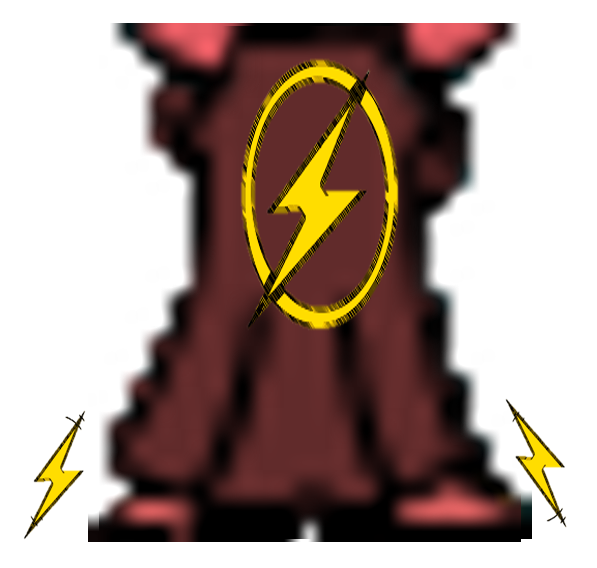
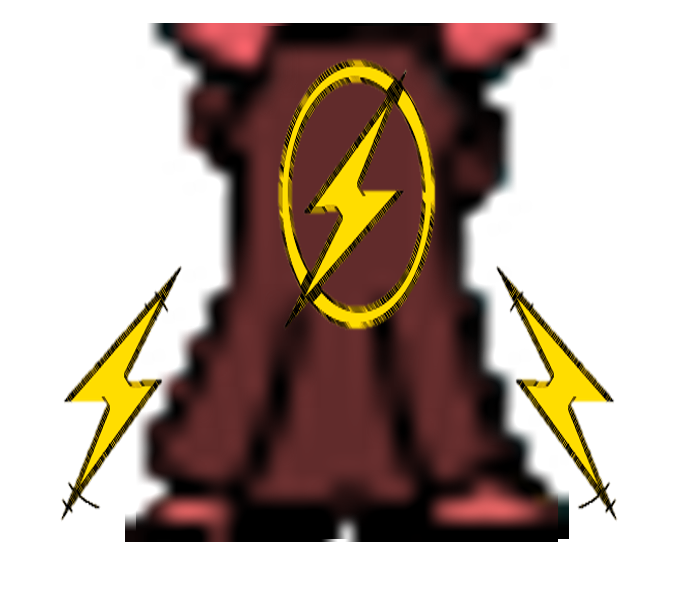
add the flash suit for the active speed booster powerup

diff --git a/bubble_trouble_ai_competition/utils/constants.py b/bubble_trouble_ai_competition/utils/constants.py
@@ -114,9 +114,15 @@ class DisplayConstants:
 class PowerupsSettings:
     
     SPEED_BOOSTER_POWERUP = "speed_booster_powerup"
-    FLASH_SUIT = "flash_suit"
+    STAND_FLASH_SUIT = "flash_suit"
     SPEED_BOOSTER_POWERUP_IMAGE_PATH = Settings.ASSETS_DIR + "\\" + "player_speed_boost_powerup.png"
     FLASH_SUIT_IMAGE_PATH = Settings.ASSETS_DIR + "\\" + "flash_suit.png"
+    FLASH_SUIT_SHIFT_X = 0.5 # In units of screen bits.
+    FLASH_SUIT_SHIFT_Y = 0.2 # In units of screen bits.
+    FLASH_SUIT_WIDTH = Settings.PLAYER_WIDTH * 1.5 # In units of screen bits.
+    FLASH_SUIT_HEIGHT = Settings.PLAYER_HEIGHT * 1.2 # In units of screen bits.
+    DUCK_FLASH_SUIT = "duck_flash_suit"
+    DUCK_FLASH_SUIT_HEIGHT = Settings.PLAYER_DUCK_HEIGHT * 1.2
 
     SHIELD_POWERUP = "shield_powerup"
     SHIELD = "shield"
@@ -124,7 +130,7 @@ class PowerupsSettings:
     SHIELD_IMAGE_PATH = Settings.ASSETS_DIR + "\\" + "shield.png"
     SHIELD_SIZE_INCREASE = 1.5 # In units of screen bits.
     SHIELD_WIDTH = Settings.PLAYER_WIDTH + SHIELD_SIZE_INCREASE
-    SHIELD_HEIGHT = Settings.PLAYER_HEIGHT + Settings.HEAD_RADIUS*2 + SHIELD_SIZE_INCREASE
+    SHIELD_HEIGHT = Settings.PLAYER_HEIGHT + Settings.HEAD_RADIUS * 2 + SHIELD_SIZE_INCREASE
 
     PUNCH_POWERUP = "punch_powerup"
     ACTIVE_LEFT_PUNCH = "active_left_punch"
@@ -173,11 +179,12 @@ class PowerupsSettings:
     DOUBLE_POINTS_POWERUP_IMAGE_PATH = Settings.ASSETS_DIR + "\\" + "double_points_powerup.png"
     DOUBLE_POINTS_ARROW_IMAGE_PATH = Settings.ASSETS_DIR + "\\" +"double_points_arrow.png"
 
-powerup_constants_to_update = ['ICE_CUBE_Y', 'ICE_CUBE_SPACING', 'ICE_CUBE_HEIGHT', 'ICE_CUBE_WIDTH','ICE_FREEZE_HEIGHT',
-                                'ICE_FREEZE_WIDTH', 'ICE_FREEZE_Y', 'ICE_CROWN_Y', 'ICE_CROWN_SPACING', 'ICE_CROWN_HEIGHT',
-                                'ICE_CROWN_WIDTH', 'MUD_WIDTH', 'MUD_HEIGHT', 'MUD_SPACING', 'PUNCH_ACTION_WIDTH',
-                                'PUNCH_ACTION_HEIGHT', 'PUNCH_HEIGHT', 'PUNCH_WIDTH', 'PUNCH_SPACING', 'SHIELD_HEIGHT',
-                                 'SHIELD_WIDTH','SHIELD_SIZE_INCREASE']
+powerup_constants_to_update = ['FLASH_SUIT_WIDTH', 'FLASH_SUIT_SHIFT_X', 'FLASH_SUIT_HEIGHT', 'FLASH_SUIT_SHIFT_Y', 'ICE_CUBE_Y',
+                                'ICE_CUBE_SPACING', 'ICE_CUBE_HEIGHT', 'ICE_CUBE_WIDTH','ICE_FREEZE_HEIGHT', 'ICE_FREEZE_WIDTH',
+                                'ICE_FREEZE_Y', 'ICE_CROWN_Y', 'ICE_CROWN_SPACING', 'ICE_CROWN_HEIGHT', 'ICE_CROWN_WIDTH',
+                                'MUD_WIDTH', 'MUD_HEIGHT', 'MUD_SPACING', 'PUNCH_ACTION_WIDTH', 'PUNCH_ACTION_HEIGHT',
+                                'PUNCH_HEIGHT', 'PUNCH_WIDTH', 'PUNCH_SPACING', 'SHIELD_HEIGHT', 'SHIELD_WIDTH',
+                                'SHIELD_SIZE_INCREASE', 'DUCK_FLASH_SUIT_HEIGHT']
 class Events:
     """
     All events that can be triggered in the game.

diff --git a/bubble_trouble_ai_competition/base_objects/base_player.py b/bubble_trouble_ai_competition/base_objects/base_player.py
@@ -11,7 +11,7 @@ from bubble_trouble_ai_competition.game_core.events_observable import EventsObse
 from bubble_trouble_ai_competition.utils.constants import Directions, DisplayConstants, Events, Settings, PowerupsSettings
 from bubble_trouble_ai_competition.utils.general_utils import circles_collide, circle_rect_collide, rect_collide
 from bubble_trouble_ai_competition.utils.types import SpeedTypes
-from bubble_trouble_ai_competition.utils.load_display import get_ai_images
+from bubble_trouble_ai_competition.utils.load_display import Images, get_ai_images
 from bubble_trouble_ai_competition.game_core.game_state import game_ais
 
 class BasePlayer:
@@ -263,11 +263,11 @@ class BasePlayer:
         Args:
             screen (pygame.Surface): The screen to draw the player on.
         """
+        ai_images = get_ai_images(self.name)
 
         # Drawing body
-        ai_images = get_ai_images(self.name)
-        body_image = ai_images[Settings.PLAYER_DUCK_BODY] if self.is_ducking else ai_images[Settings.PLAYER_STAND_BODY]
-        screen.blit(body_image, (self.x, self.y))
+        body_image, body_image_coordinates = self.get_body_image_and_coordinates(ai_images)        
+        screen.blit(body_image, body_image_coordinates)
 
         # Drawing head
         head_image_draw_position = (self.head_center[0] - self.head_radius, self.head_center[1] - self.head_radius)
@@ -279,6 +279,33 @@ class BasePlayer:
         elif (self.direction == Directions.RIGHT):
             screen.blit(ai_images[Settings.PLAYER_RIGHT_HEAD], head_image_draw_position)
 
+
+    def get_body_image_and_coordinates(self, ai_images) -> tuple:
+        """Return the body image and body image coordinates of player."""
+
+        # Set the regular player body image and coordinates.
+        body_image = ai_images[Settings.PLAYER_STAND_BODY]
+        body_image_coordinates = (self.x, self.y)
+
+        # Check if player have active speed boost powerup.
+        if self.speed == SpeedTypes.FAST:
+            # Set flash suit body coordinates.
+            body_image_coordinates = (self.x - PowerupsSettings.FLASH_SUIT_SHIFT_X, self.y - PowerupsSettings.FLASH_SUIT_SHIFT_Y)
+            if self.is_ducking == True:
+                # Set the duck flash suit body image.
+                body_image = Images.powerups_images[PowerupsSettings.DUCK_FLASH_SUIT]
+            else:
+                # Set the stand flash suit body image.
+                body_image = Images.powerups_images[PowerupsSettings.STAND_FLASH_SUIT]
+
+        else:
+            if self.is_ducking == True:
+                # Set the regular duck body image.
+                body_image = ai_images[Settings.PLAYER_DUCK_BODY]
+        
+        return body_image, body_image_coordinates
+    
+     
     def can_shoot(self) -> bool:
         """
         Checks if the player can shoot.

diff --git a/bubble_trouble_ai_competition/utils/load_display.py b/bubble_trouble_ai_competition/utils/load_display.py
@@ -88,7 +88,8 @@ def load_all_powerups_images() -> dict[str, pygame.Surface]:
             PowerupsSettings.SPEED_SLOWER_POWERUP: load_and_scale_powerup_image(PowerupsSettings.SPEED_SLOWER_POWERUP_IMAGE_PATH),
             PowerupsSettings.MUD: load_and_scale_image(PowerupsSettings.MUD_IMAGE_PATH, PowerupsSettings.MUD_WIDTH, PowerupsSettings.MUD_HEIGHT),
             PowerupsSettings.SPEED_BOOSTER_POWERUP: load_and_scale_powerup_image(PowerupsSettings.SPEED_BOOSTER_POWERUP_IMAGE_PATH),
-            PowerupsSettings.FLASH_SUIT: load_and_scale_image(PowerupsSettings.FLASH_SUIT_IMAGE_PATH, Settings.PLAYER_WIDTH, Settings.PLAYER_HEIGHT),
+            PowerupsSettings.STAND_FLASH_SUIT: load_and_scale_image(PowerupsSettings.FLASH_SUIT_IMAGE_PATH, PowerupsSettings.FLASH_SUIT_WIDTH, PowerupsSettings.FLASH_SUIT_HEIGHT),
+            PowerupsSettings.DUCK_FLASH_SUIT: load_and_scale_image(PowerupsSettings.FLASH_SUIT_IMAGE_PATH, PowerupsSettings.FLASH_SUIT_WIDTH, PowerupsSettings.DUCK_FLASH_SUIT_HEIGHT),
             PowerupsSettings.PUNCH_POWERUP: pygame.transform.rotate(load_and_scale_powerup_image(PowerupsSettings.PUNCH_POWERUP_IMAGE_PATH), 270),
             PowerupsSettings.ACTIVE_LEFT_PUNCH: load_and_scale_image(PowerupsSettings.PUNCH_ACTION_IMAGE_PATH, PowerupsSettings.PUNCH_WIDTH, PowerupsSettings.PUNCH_HEIGHT),
             PowerupsSettings.LEFT_ACTION_PUNCH: load_and_scale_image(PowerupsSettings.PUNCH_ACTION_IMAGE_PATH, PowerupsSettings.PUNCH_ACTION_WIDTH, PowerupsSettings.PUNCH_ACTION_HEIGHT),

diff --git a/bubble_trouble_ai_competition/powerups/player_speed_boost_powerup.py b/bubble_trouble_ai_competition/powerups/player_speed_boost_powerup.py
@@ -22,10 +22,6 @@ class PlayerSpeedBoostPowerup(Powerup):
         super().__init__(x, y, speed_y, gravity)
     
     def draw(self, screen: pygame.Surface):
-        if self.active:
-            # draw flash suit
-            pass
-
         super().draw(screen, Images.powerups_images[PowerupsSettings.SPEED_BOOSTER_POWERUP])
 
     def activate(self, player: BasePlayer) -> None:
